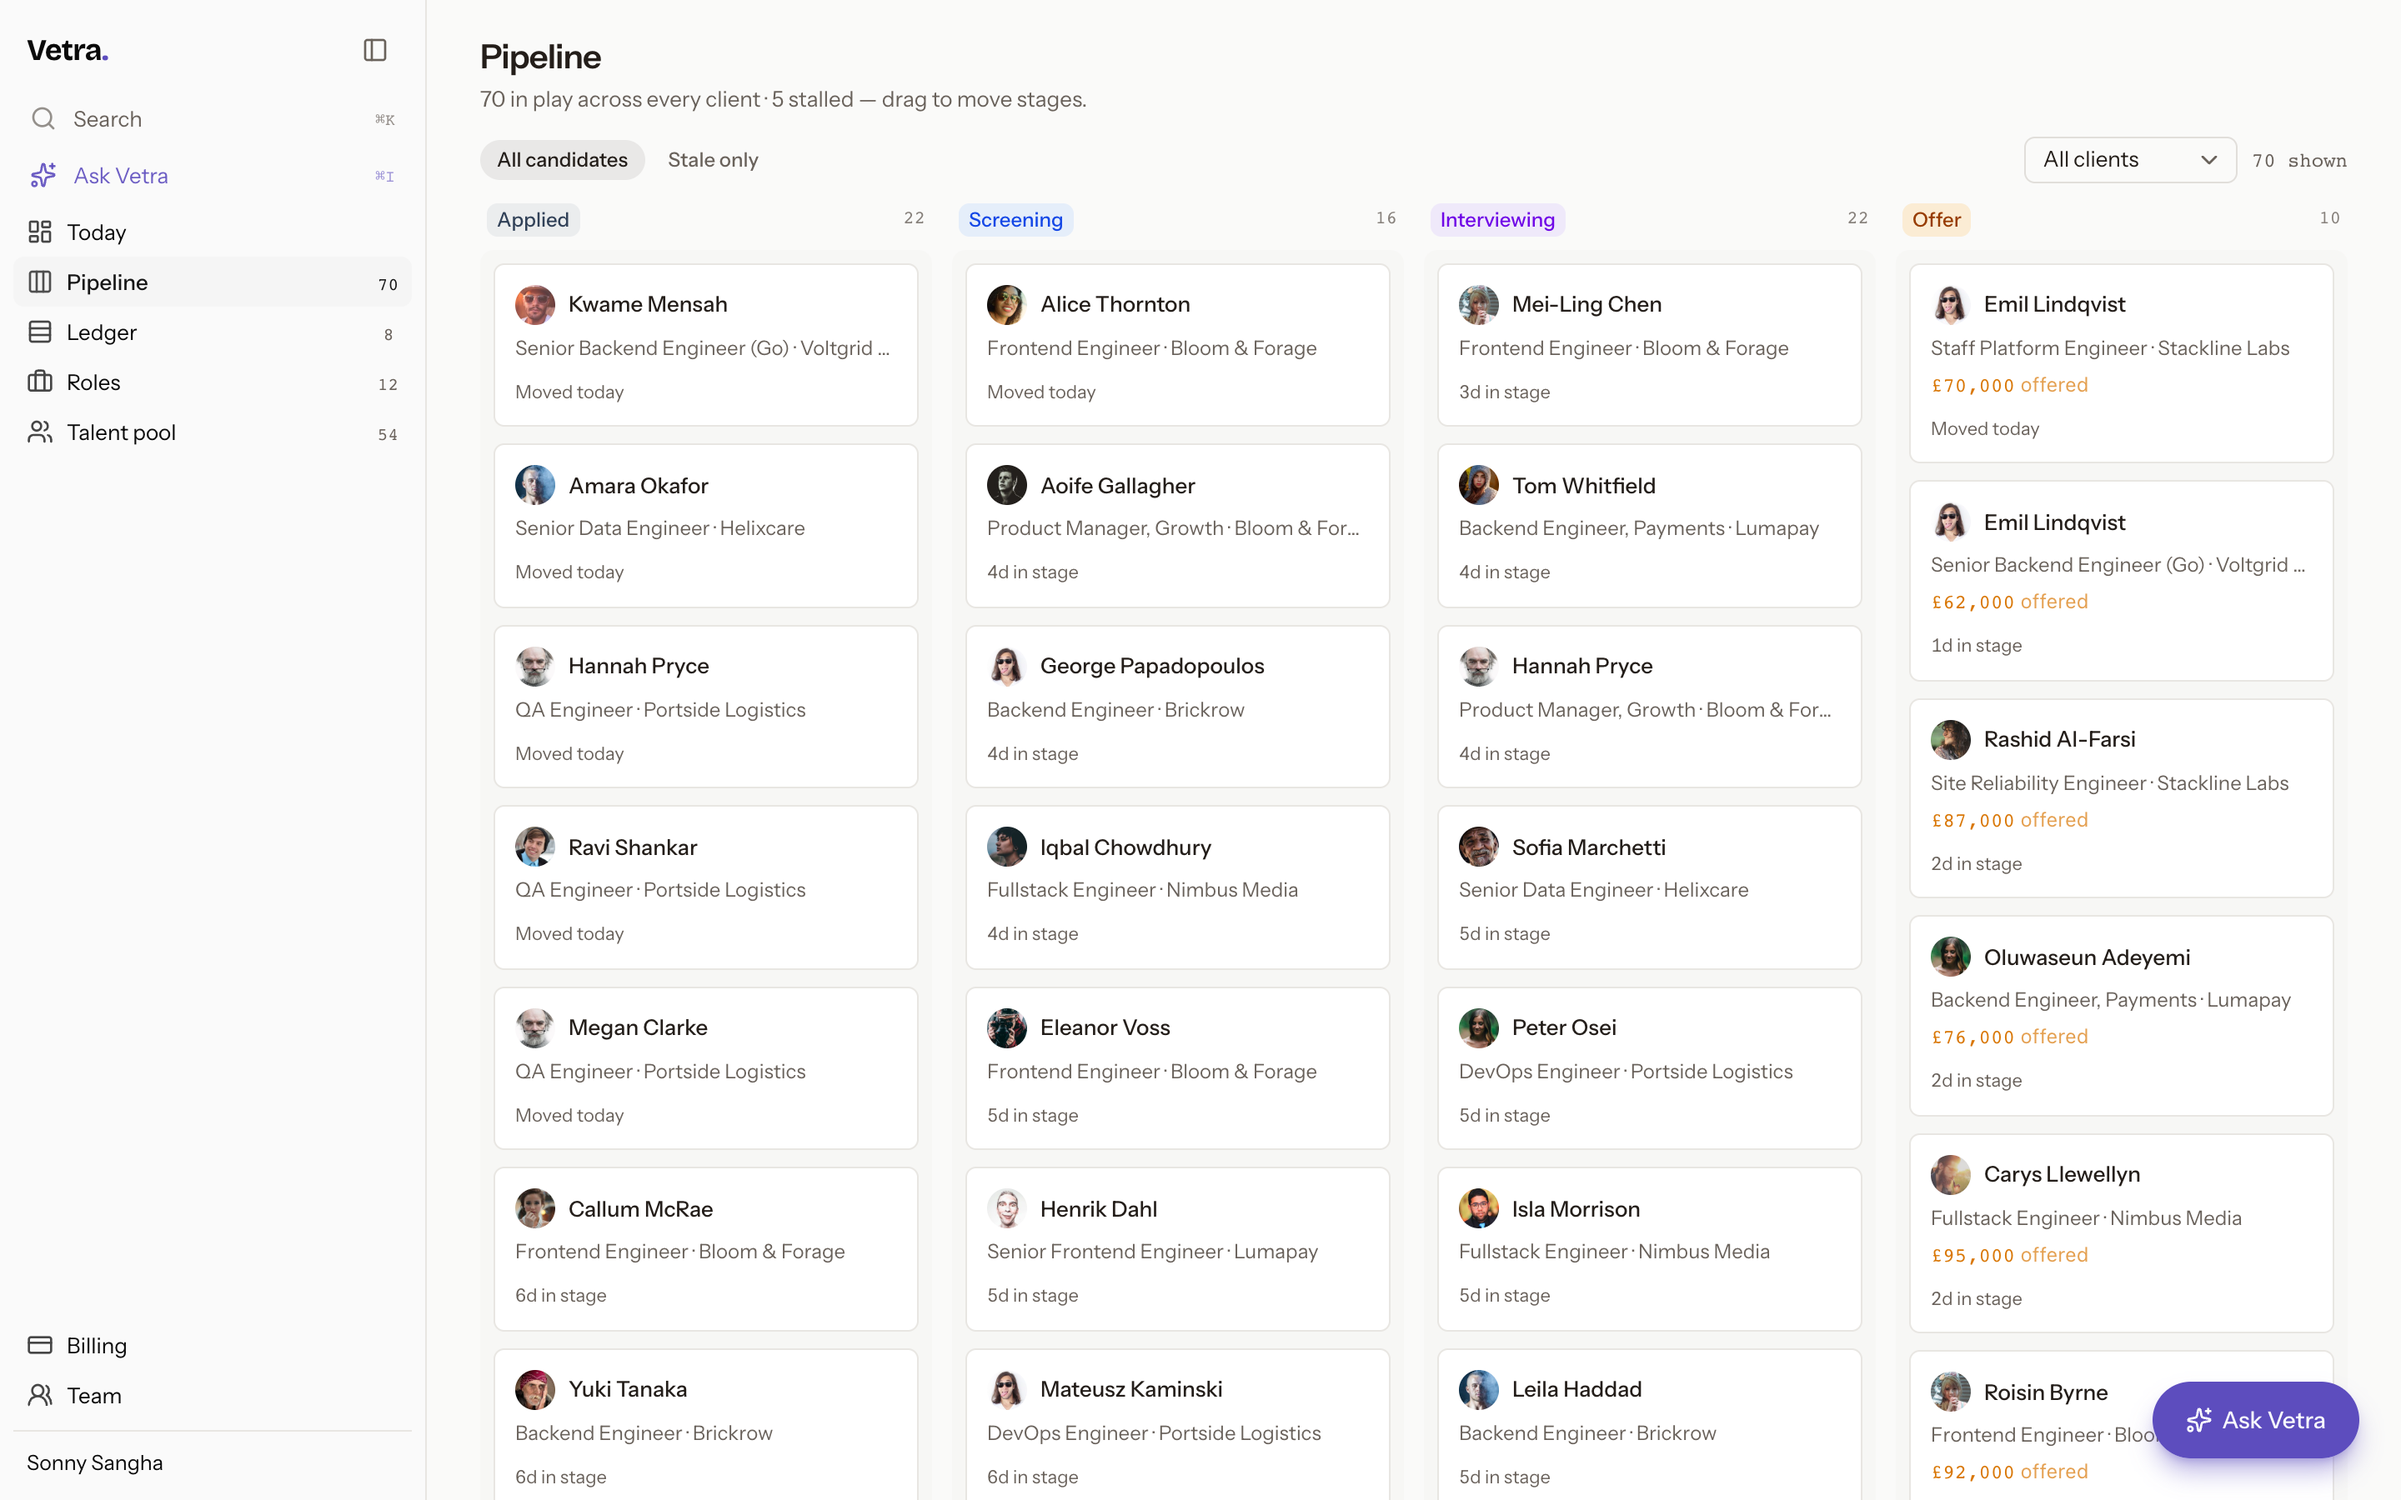
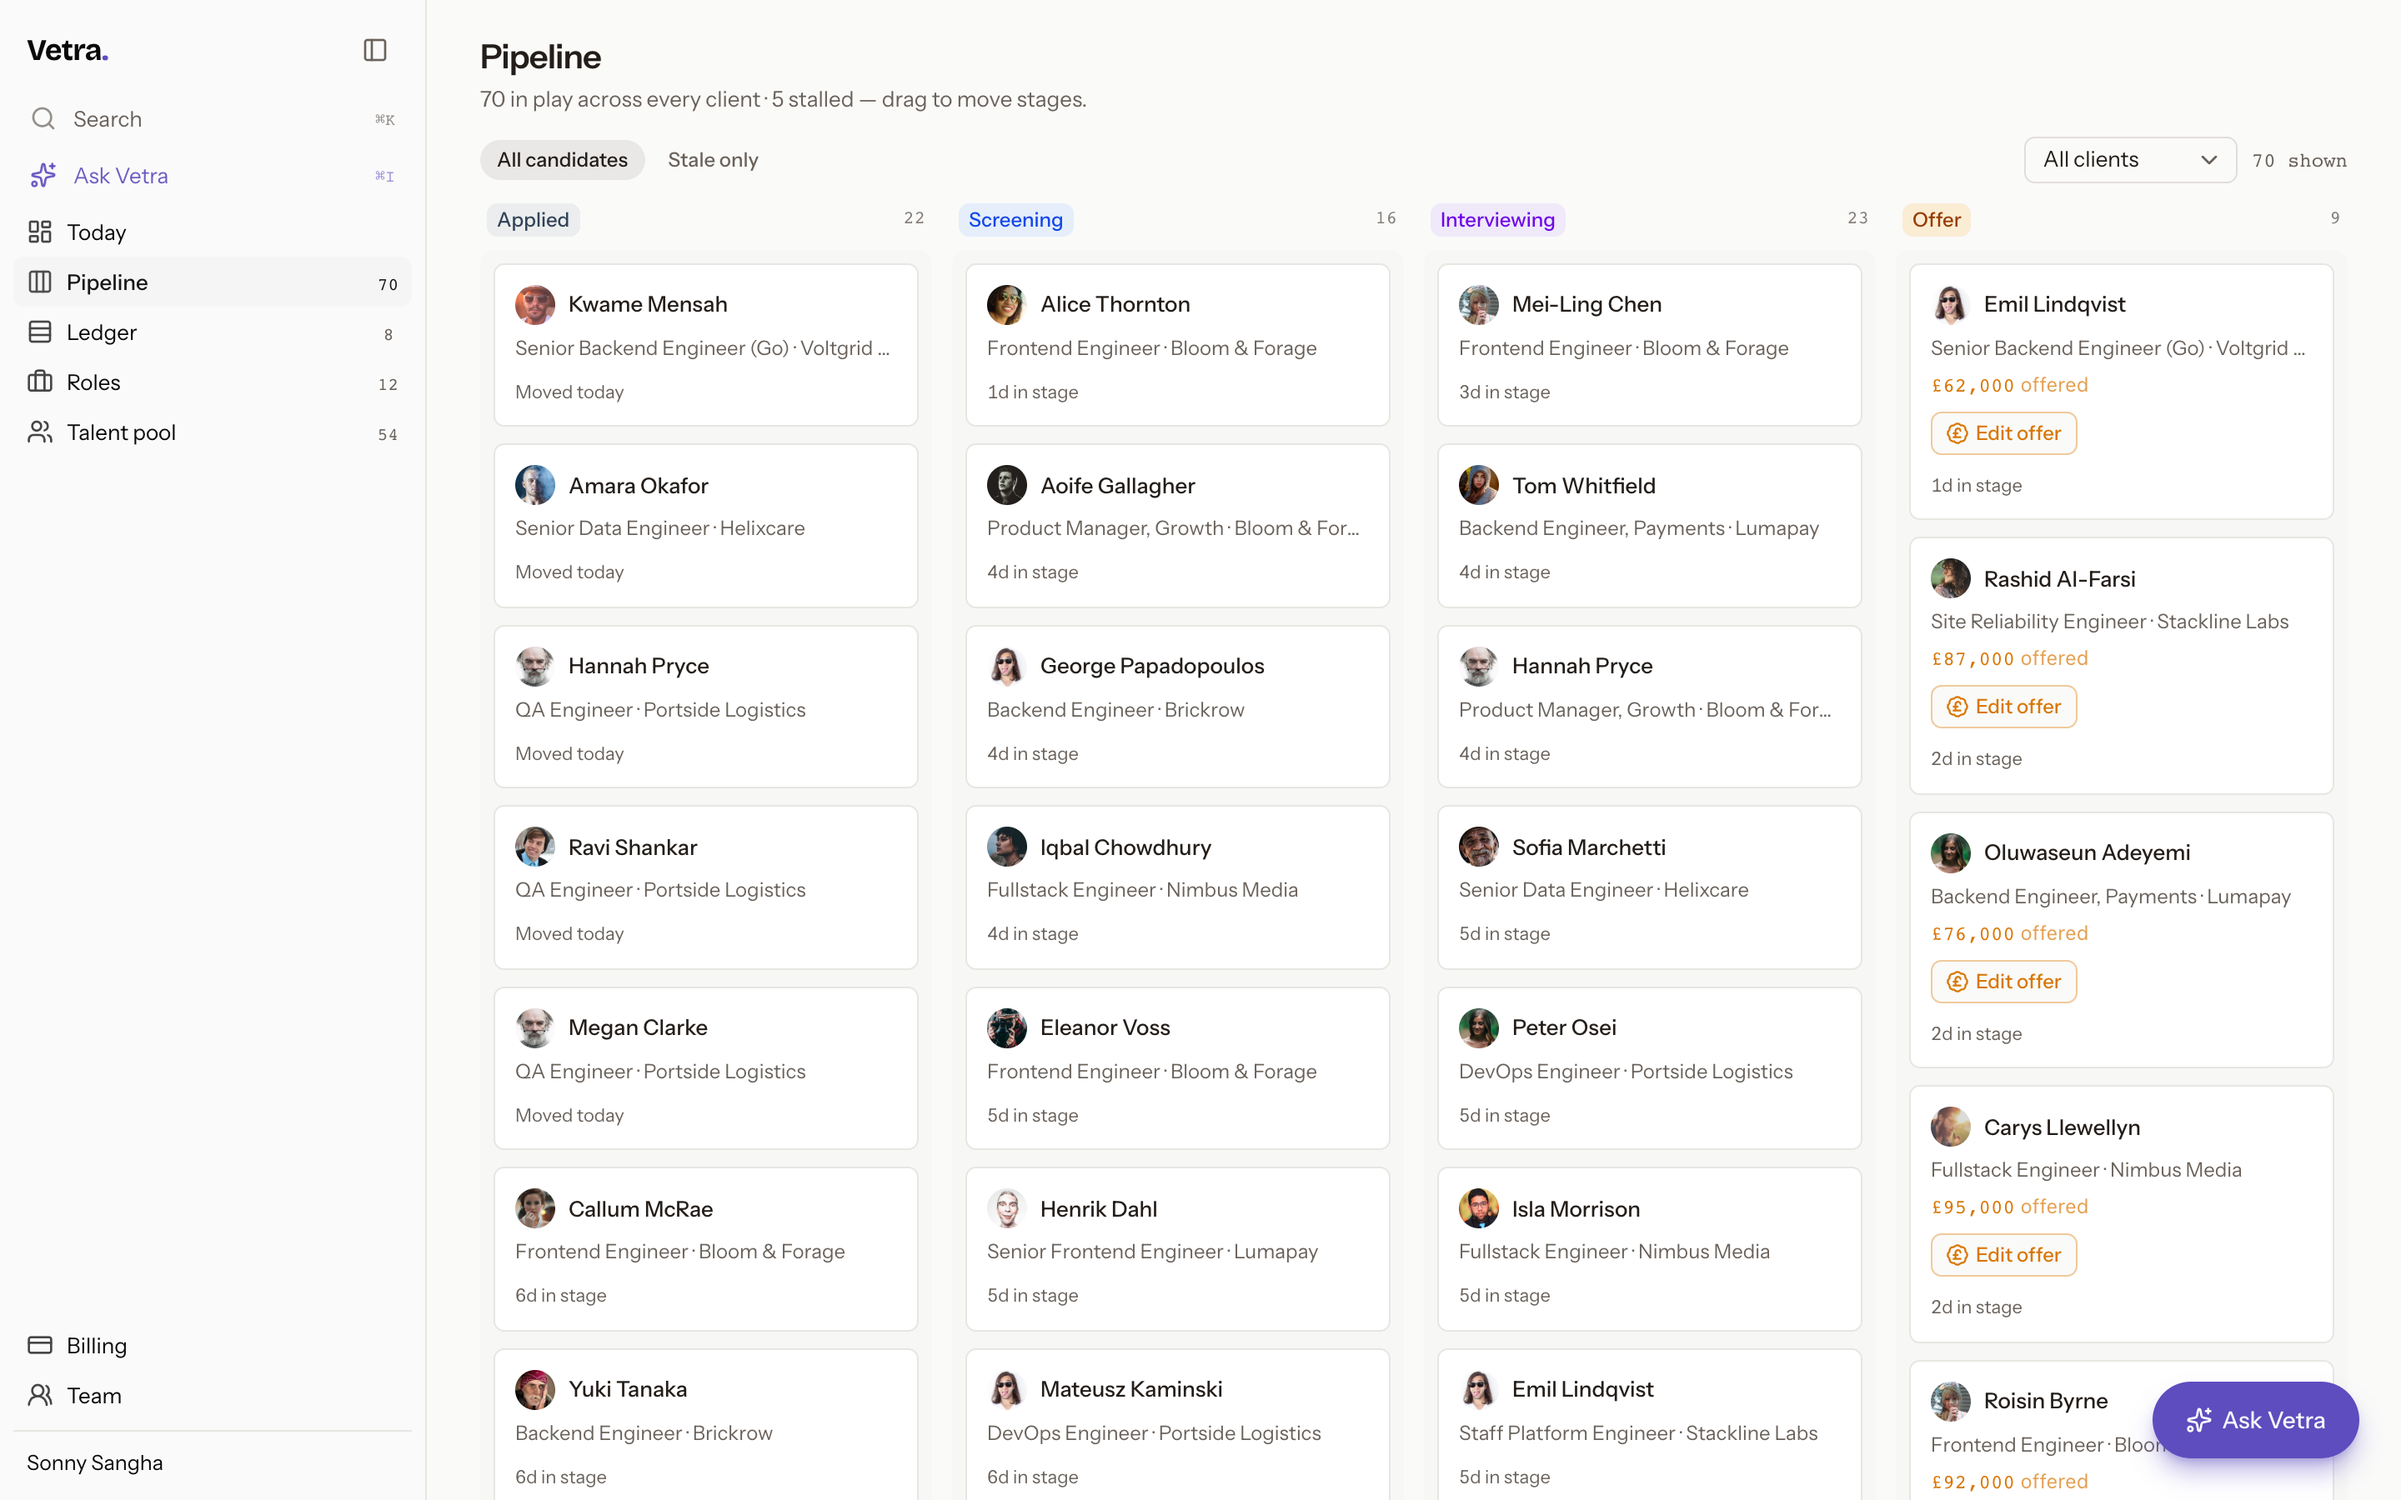
Let offers be recorded from the board, and seed the notes
Offer amounts were readable in six places but writable in exactly one: a
small button on an application row inside a candidate's record. Dropping
someone into the Offer lane set the stage with no way to record what was
actually offered.

- Surface RecordOfferDialog on kanban cards in the offer/hired stages, so
  the figure is recorded where the decision happens. Covers both the job
  board and the cross-client pipeline board; hidden on closed (read-only)
  boards.
- The card is both a drag handle and a click-to-open target, so the control
  stops pointerdown reaching the drag sensor, and the card's open handler
  ignores clicks originating in a [data-card-action] control. Base UI's
  dialog trigger manages its own click, so propagation alone wasn't enough.
- Fetch offerNote into both board queries so editing from a card pre-fills
  the existing note instead of showing a blank field.
- Seed offerNote on all 13 offer/hired applications — the field was in the
  schema and read by the UI but had never been seeded, so the note half of
  the feature had no demo data. Hired offers are back-dated a few days from
  acceptance, clamped so an offer can never predate the application.

Verified end to end: dialog opens without navigating, note pre-fills, save
persists to Sanity and the board updates.

diff --git a/components/kanban/kanban-card.tsx b/components/kanban/kanban-card.tsx
@@ -3,6 +3,7 @@
 import { useDraggable } from "@dnd-kit/core";
 import { type Stage } from "@/sanity/schemas/stages";
 import { InitialsChip } from "@/components/initials-chip";
+import { RecordOfferDialog } from "@/components/offers/record-offer-dialog";
 import { Spinner } from "@/components/ui/spinner";
 import { cn } from "@/lib/utils";
 
@@ -18,6 +19,8 @@ export type BoardApplication = {
   matchPct?: number | null;
   /** The offer figure, once one is out. */
   offerAmount?: string | null;
+  /** The note that went with the offer — so editing from a board keeps it. */
+  offerNote?: string | null;
 };
 
 function daysInStage(stageUpdatedAt: string): number {
@@ -30,11 +33,14 @@ export function KanbanCardContent({
   application,
   dragging = false,
   pending = false,
+  action = null,
 }: {
   application: BoardApplication;
   dragging?: boolean;
   /** The card's stage move is still committing on the server. */
   pending?: boolean;
+  /** Interactive footer control. Omitted in the DragOverlay copy. */
+  action?: React.ReactNode;
 }) {
   const days = daysInStage(application.stageUpdatedAt);
   const stale =
@@ -81,6 +87,7 @@ export function KanbanCardContent({
           </span>
         </p>
       ) : null}
+      {action ? <div className="mt-2">{action}</div> : null}
       <div className="mt-2.5 flex items-center justify-between gap-2">
         {pending ? (
           <span className="text-muted-foreground inline-flex items-center gap-1 text-[11px]">
@@ -126,19 +133,50 @@ export function KanbanCard({
     disabled: readOnly,
   });
 
+  // Recording the offer belongs where you drag someone into Offer — not three
+  // clicks away on their record.
+  const offerable =
+    !readOnly &&
+    (application.stage === "offer" || application.stage === "hired");
+
   return (
     <div
       ref={setNodeRef}
       {...listeners}
       {...attributes}
-      onClick={() => onOpen?.(application)}
+      onClick={(e) => {
+        // Base UI's dialog trigger manages its own click, so don't rely on
+        // propagation alone — never open the record from a card control.
+        if ((e.target as HTMLElement).closest("[data-card-action]")) return;
+        onOpen?.(application);
+      }}
       className={cn(
         "cursor-pointer",
         !readOnly && "touch-none",
         isDragging && "opacity-40",
       )}
     >
-      <KanbanCardContent application={application} pending={pending} />
+      <KanbanCardContent
+        application={application}
+        pending={pending}
+        action={
+          offerable ? (
+            // The card is both a drag handle and a click-to-open target, so the
+            // dialog's own events must not reach either.
+            <div
+              data-card-action
+              onPointerDown={(e) => e.stopPropagation()}
+            >
+              <RecordOfferDialog
+                applicationId={application._id}
+                candidateName={application.candidateName ?? "this candidate"}
+                existingAmount={application.offerAmount}
+                existingNote={application.offerNote}
+              />
+            </div>
+          ) : null
+        }
+      />
     </div>
   );
 }

diff --git a/app/dashboard/pipeline/page.tsx b/app/dashboard/pipeline/page.tsx
@@ -18,6 +18,7 @@ const FLOOR_QUERY = `*[
   "candidateName": candidate->name,
   "candidateAvatarUrl": candidate->avatarUrl,
   offerAmount,
+  offerNote,
   "jobTitle": job->title,
   "companyId": job->company->_id,
   "companyName": job->company->name
@@ -79,6 +80,7 @@ export default async function PipelinePage({
     candidateName: row.candidateName,
     candidateAvatarUrl: row.candidateAvatarUrl,
     offerAmount: row.offerAmount,
+    offerNote: row.offerNote,
     candidateHeadline: [row.jobTitle, row.companyName]
       .filter(Boolean)
       .join(" · "),

diff --git a/app/dashboard/jobs/[id]/page.tsx b/app/dashboard/jobs/[id]/page.tsx
@@ -57,7 +57,8 @@ const APPLICATIONS_QUERY = `*[_type == "application" && orgId == $orgId && job._
   "candidateName": candidate->name,
   "candidateHeadline": candidate->headline,
   "candidateAvatarUrl": candidate->avatarUrl,
-  offerAmount
+  offerAmount,
+  offerNote
 }`;
 
 const AVAILABLE_CANDIDATES_QUERY = `*[

diff --git a/README.md b/README.md
@@ -128,6 +128,9 @@ guards as the UI.
   state, open searches, and "since you last spoke" activity
 - 🗂 **Roles** — card grid or a pure-CSS **Gantt timeline** of every search
 - 👥 **Talent pool** — URL-driven search by name, skill and source
+- 💷 **Offers where you make them** — record or edit the figure and the note
+  straight from the Offer lane; recording from an earlier stage moves the
+  candidate to Offer for you
 - ⌨ **⌘K** command palette, **⌘I** quick-ask, **⌘B** sidebar
 
 | Today — the triage queue | Pipeline — cross-client kanban |
@@ -145,6 +148,8 @@ guards as the UI.
 ![Roles as a timeline — each search is a bar from the day it opened to today, tinted to match the client](docs/assets/roles-timeline.png)
 
 ![The Today peek panel — why this person is in your queue, their stage rail, interview history, and two one-click questions for the AI](docs/assets/today-peek.png)
+
+![Recording an offer from the Offer lane — the amount and the note that goes with it](docs/assets/record-offer.png)
 
 > The candidate record above is where the two semantic fields live: **`cvText`**
 > (the CV as written) and, under each round, **`feedbackText`** (the debrief a
@@ -683,7 +688,8 @@ The seed data is engineered so every beat lands:
    prompt also uses.
 2. **Drag a card** on the Pipeline board — the move is optimistic, and
    `moveApplication` deliberately skips `revalidatePath` so cards never jump
-   mid-drag.
+   mid-drag. Drop someone into **Offer** and record the figure right there;
+   the note you add is what the agent reads back when you ask about the offer.
 3. **Ask Vetra**: _"Who's stalled in screening?"_ — **structural**. Watch the tool
    receipt: a plain GROQ date filter, no embeddings.
 4. **Ask**: _"Find me a React engineer with fintech experience"_ — **semantic**,
